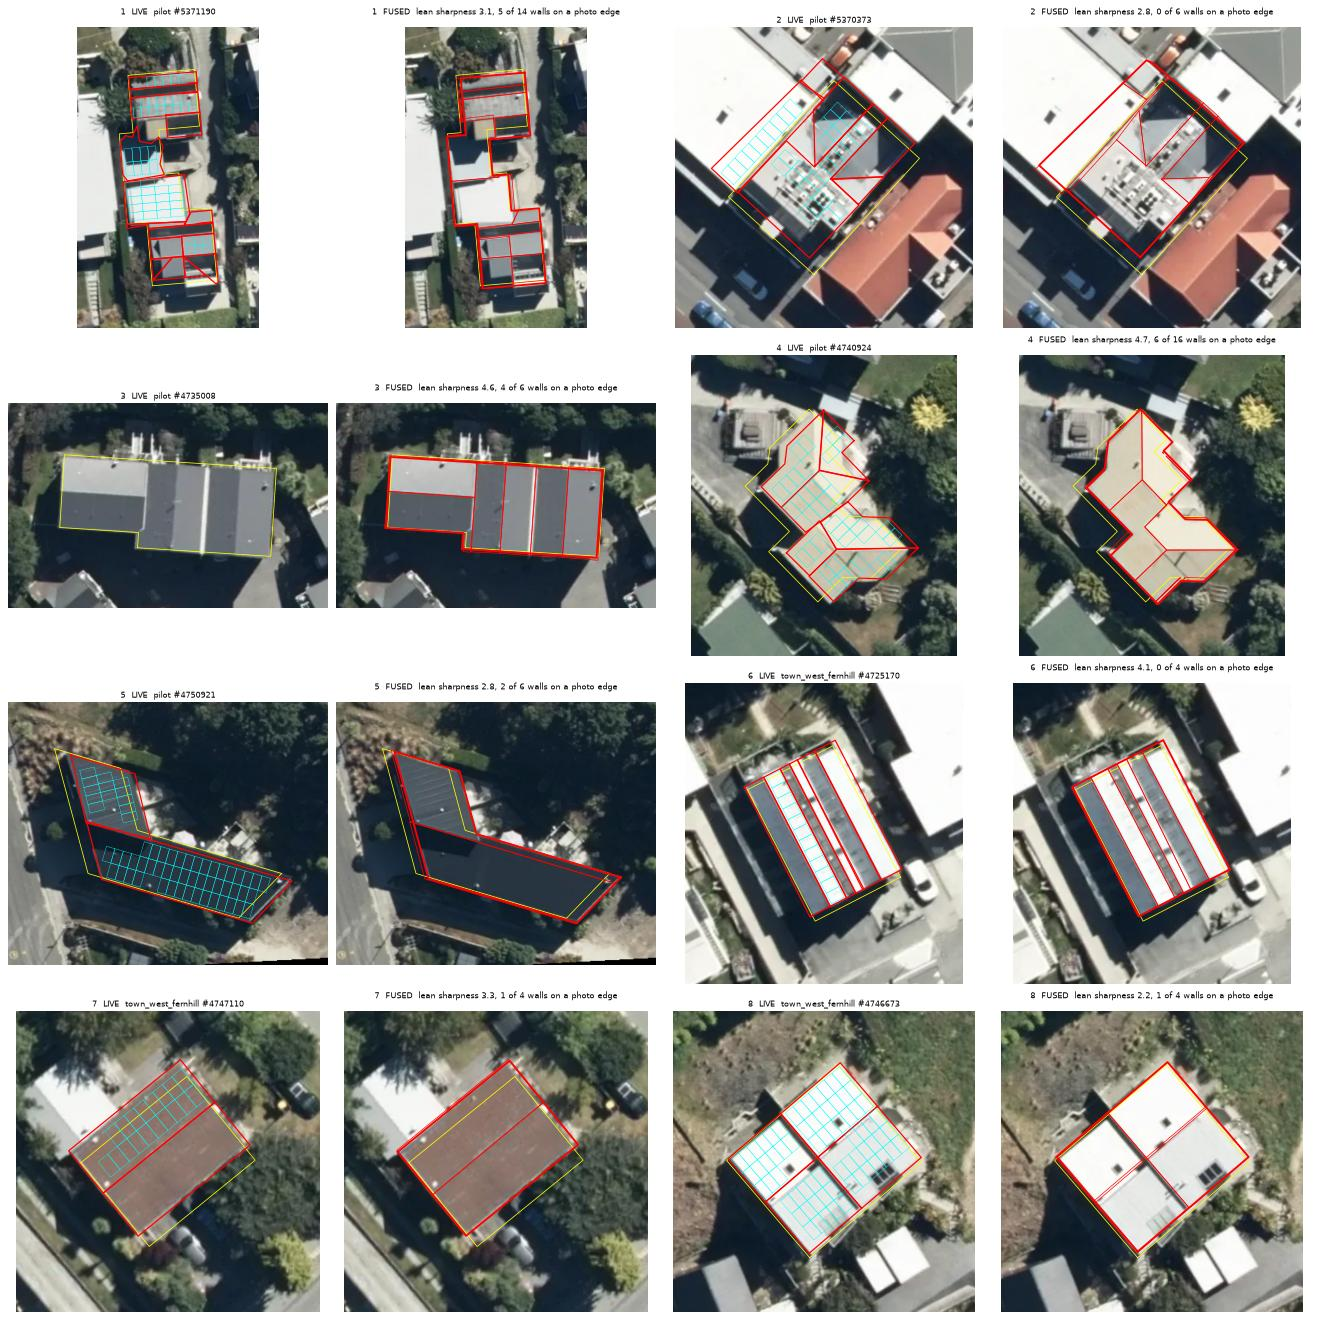
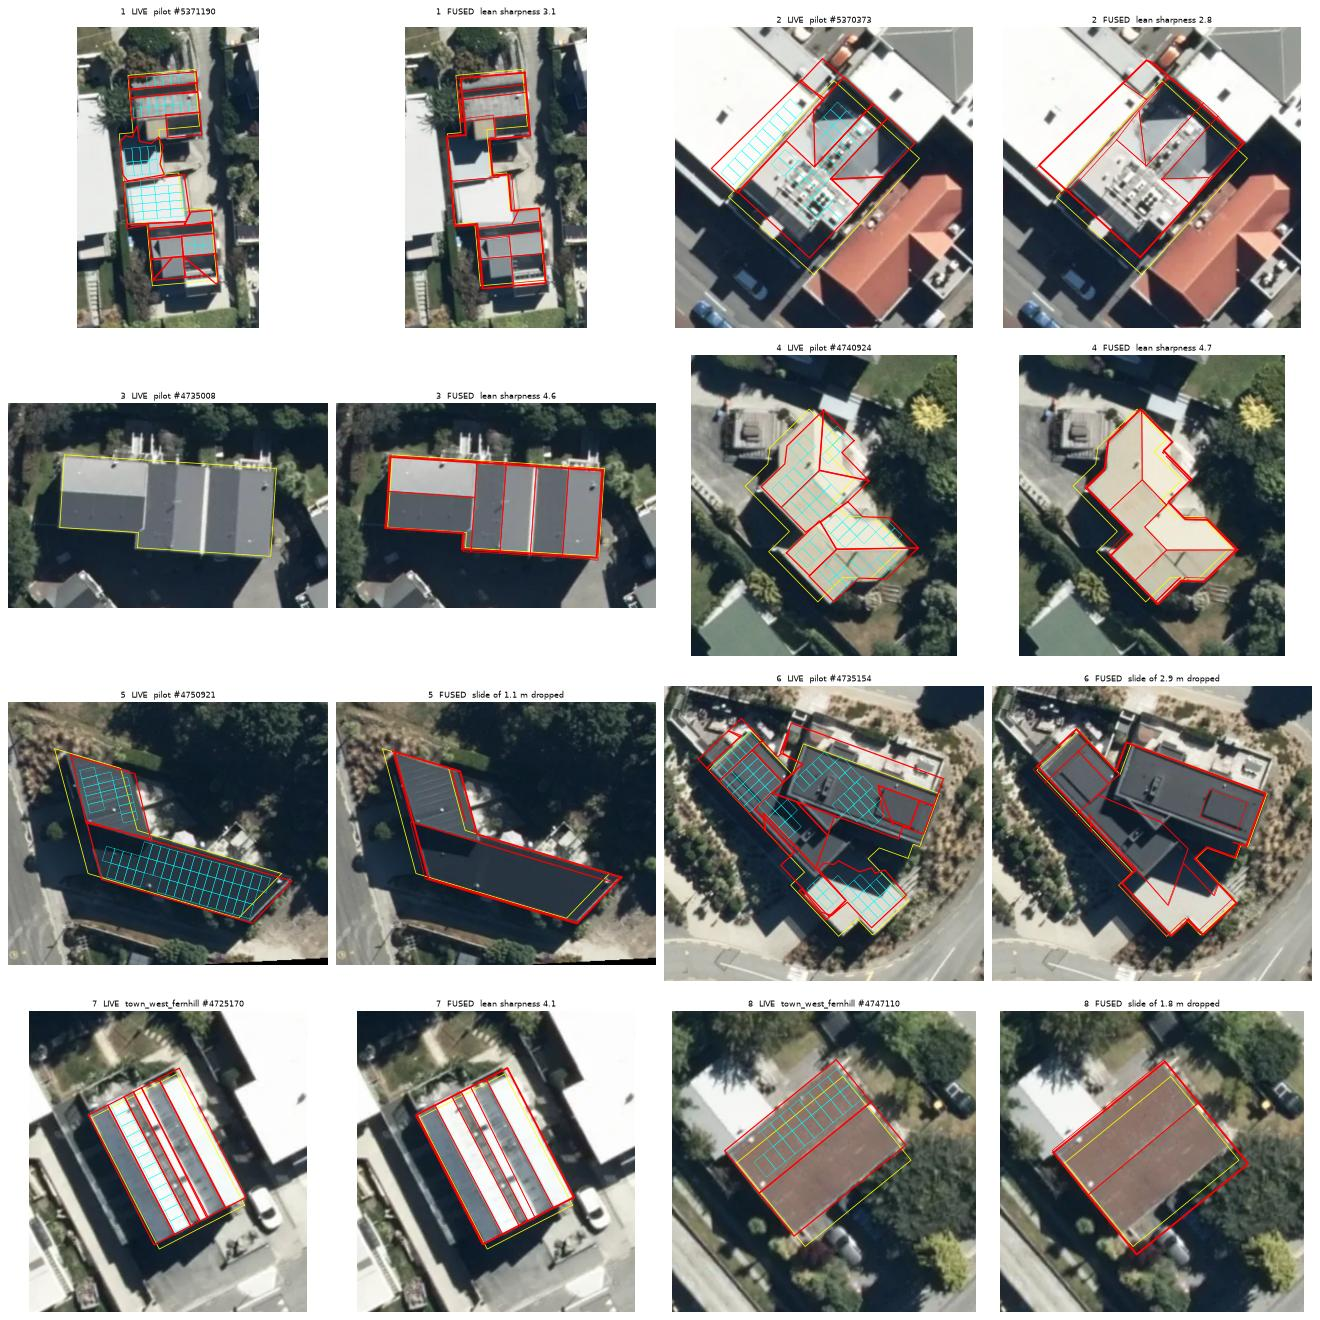
Review sheets: fused roof edge with the slide and lean checks

diff --git a/BACKLOG.md b/BACKLOG.md
@@ -397,6 +397,21 @@ roofs still on the map lost face area, and about 10 big drops were rendered.
 
 ## Roof lines
 
+- **Fused roof edge: two checks added after the owner's verdict (18 Nov).**
+  Owner on the 40-house sheets: fused looks better, some way off (#4721959,
+  2.6 m off its roof). Cause: its lean came out at the corner of the search
+  (0.4, -0.4 m per m), on the building's own shadow edge. Added in
+  `tools/experiments/fused_edge.py`: (1) a slide onto the returns of 1 m or
+  more is kept only when the roof it gives matches the photo at least as
+  sharply as the unslid roof; (2) a lean at the search limit, or over
+  0.2 m per m from the median lean of the sharp roofs within 150 m, takes
+  that median (no lean when there are too few neighbours). Rerun on the
+  same 40 plus 3 Kerry Drive (sheets replaced, `fused_vs_live_18nov_1..6`;
+  numbering moved by one after house 5): 7 of 41 caught: slides dropped on
+  5, 6 (3 Kerry Drive, 2.9 m), 8 and 11; lean replaced on 13, 20
+  (#4721959) and 22. Agent's reading: 20, 6, 5 and 8 now sit on their
+  roofs. Not yet in the build.
+
 - **Fused roof edge beside v83 on 40 random unmarked houses (18 Nov,
   `tools/experiments/fused_vs_live.py`, eight regions, five each,
   `docs/review/fused_vs_live_18nov_1..5.jpg`; awaiting the owner's
